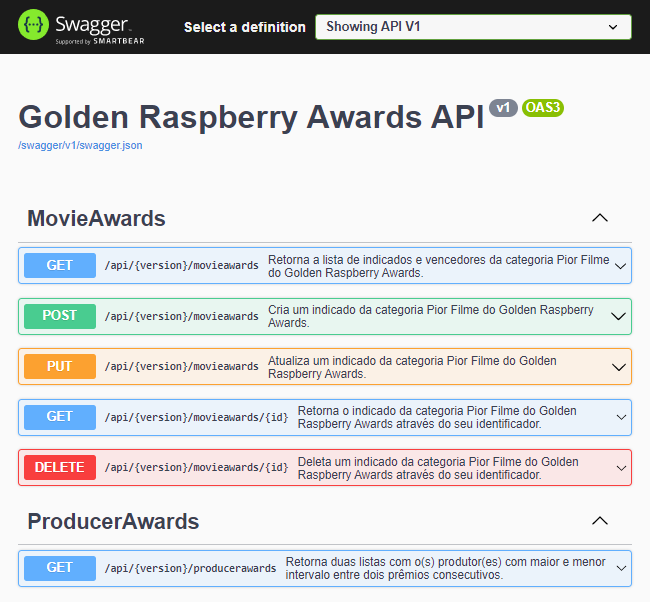
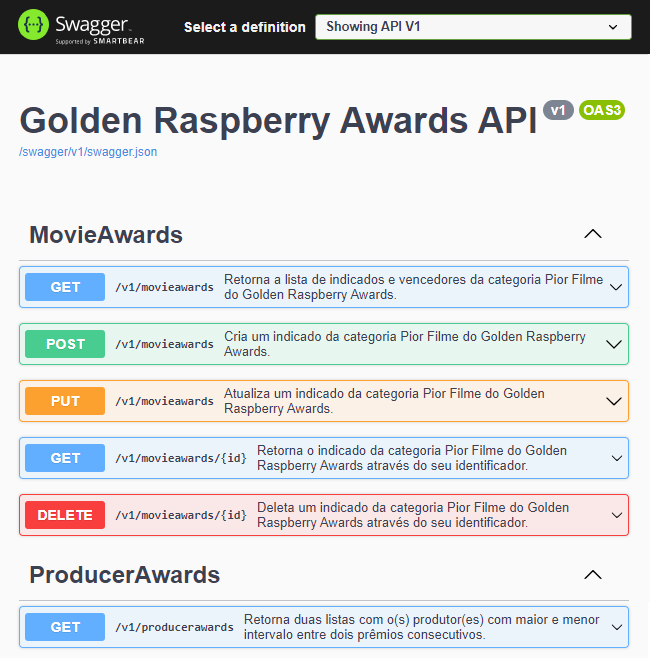
Atualizando formato do versionamento da api assim como os testes de integração e o arquivo README.md

diff --git a/golden.raspberry.awards.api.tests/Controllers/ProducerAwardsControllerTests.cs b/golden.raspberry.awards.api.tests/Controllers/ProducerAwardsControllerTests.cs
@@ -26,7 +26,7 @@ namespace golden.raspberry.awards.api.tests
         private AppDbContext _appDbContext;
         private SqliteConnection _sqliteConnection;
 
-        private const int ApiVersion = 1;
+        private const string ApiUrlVersion = "v1/producerawards";
 
         [SetUp]
         public void Setup()
@@ -66,7 +66,7 @@ namespace golden.raspberry.awards.api.tests
             _appDbContext.SaveChanges();
 
             //Act
-            var response = await _client.GetAsync($"/api/{ApiVersion}/producerawards");
+            var response = await _client.GetAsync($"{ApiUrlVersion}");
             response.EnsureSuccessStatusCode();
 
             var producerAwardResult = JsonConvert.DeserializeObject<ProducerAwardResult>(response.Content.ReadAsStringAsync().Result);
@@ -108,7 +108,7 @@ namespace golden.raspberry.awards.api.tests
             _appDbContext.SaveChanges();
 
             //Act
-            var response = await _client.GetAsync($"/api/{ApiVersion}/producerawards");
+            var response = await _client.GetAsync($"{ApiUrlVersion}");
             response.EnsureSuccessStatusCode();
 
             var producerAwardResult = JsonConvert.DeserializeObject<ProducerAwardResult>(response.Content.ReadAsStringAsync().Result);
@@ -144,7 +144,7 @@ namespace golden.raspberry.awards.api.tests
             _appDbContext.SaveChanges();
 
             //Act
-            var response = await _client.GetAsync($"/api/{ApiVersion}/producerawards");
+            var response = await _client.GetAsync($"{ApiUrlVersion}");
             response.EnsureSuccessStatusCode();
 
             var producerAwardResult = JsonConvert.DeserializeObject<ProducerAwardResult>(response.Content.ReadAsStringAsync().Result);
@@ -163,7 +163,7 @@ namespace golden.raspberry.awards.api.tests
             var expectedCount = 0;
 
             //Act
-            var response = await _client.GetAsync($"/api/{ApiVersion}/producerawards");
+            var response = await _client.GetAsync($"{ApiUrlVersion}");
             response.EnsureSuccessStatusCode();
 
             var producerAwardResult = JsonConvert.DeserializeObject<ProducerAwardResult>(response.Content.ReadAsStringAsync().Result);
@@ -195,7 +195,7 @@ namespace golden.raspberry.awards.api.tests
             _appDbContext.SaveChanges();
 
             //Act
-            var response = await _client.GetAsync($"/api/{ApiVersion}/producerawards");
+            var response = await _client.GetAsync($"{ApiUrlVersion}");
             response.EnsureSuccessStatusCode();
 
             var producerAwardResult = JsonConvert.DeserializeObject<ProducerAwardResult>(response.Content.ReadAsStringAsync().Result);
@@ -227,7 +227,7 @@ namespace golden.raspberry.awards.api.tests
             _appDbContext.SaveChanges();
 
             //Act
-            var response = await _client.GetAsync($"/api/{ApiVersion}/producerawards");
+            var response = await _client.GetAsync($"{ApiUrlVersion}");
             response.EnsureSuccessStatusCode();
 
             var producerAwardResult = JsonConvert.DeserializeObject<ProducerAwardResult>(response.Content.ReadAsStringAsync().Result);
@@ -263,7 +263,7 @@ namespace golden.raspberry.awards.api.tests
             _appDbContext.SaveChanges();
 
             //Act
-            var response = await _client.GetAsync($"/api/{ApiVersion}/producerawards");
+            var response = await _client.GetAsync($"{ApiUrlVersion}");
             response.EnsureSuccessStatusCode();
 
             var producerAwardResult = JsonConvert.DeserializeObject<ProducerAwardResult>(response.Content.ReadAsStringAsync().Result);
@@ -305,7 +305,7 @@ namespace golden.raspberry.awards.api.tests
             _appDbContext.SaveChanges();
 
             //Act
-            var response = await _client.GetAsync($"/api/{ApiVersion}/producerawards");
+            var response = await _client.GetAsync($"{ApiUrlVersion}");
             response.EnsureSuccessStatusCode();
 
             var producerAwardResult = JsonConvert.DeserializeObject<ProducerAwardResult>(response.Content.ReadAsStringAsync().Result);
@@ -344,7 +344,7 @@ namespace golden.raspberry.awards.api.tests
             _appDbContext.SaveChanges();
 
             //Act
-            var response = await _client.GetAsync($"/api/{ApiVersion}/producerawards");
+            var response = await _client.GetAsync($"{ApiUrlVersion}");
             response.EnsureSuccessStatusCode();
 
             var producerAwardResult = JsonConvert.DeserializeObject<ProducerAwardResult>(response.Content.ReadAsStringAsync().Result);

diff --git a/golden.raspberry.awards.api.tests/Controllers/MovieAwardsControllerTests.cs b/golden.raspberry.awards.api.tests/Controllers/MovieAwardsControllerTests.cs
@@ -28,7 +28,7 @@ namespace golden.raspberry.awards.api.tests.Controllers
         private AppDbContext _appDbContext;
         private SqliteConnection _sqliteConnection;
 
-        private const int ApiVersion = 1;
+        private const string ApiUrlVersion = "v1/movieawards";
 
         [OneTimeSetUp]
         public void OnTypeSetup()
@@ -65,7 +65,7 @@ namespace golden.raspberry.awards.api.tests.Controllers
             var expectedCount = 206;
 
             //Act
-            var response = await _client.GetAsync($"/api/{ApiVersion}/movieawards");
+            var response = await _client.GetAsync($"{ApiUrlVersion}");
             response.EnsureSuccessStatusCode();
 
             var movieAwardNominations = JsonConvert.DeserializeObject<List<MovieAwardNomination>>(response.Content.ReadAsStringAsync().Result);
@@ -78,7 +78,7 @@ namespace golden.raspberry.awards.api.tests.Controllers
         public async Task Quando_BuscarPorIdNaoExistente_Deve_Retornar_NuloECodigoSemConteudo()
         {
             //Act
-            var response = await _client.GetAsync($"/api/{ApiVersion}/movieawards/500");
+            var response = await _client.GetAsync($"{ApiUrlVersion}/500");
             response.EnsureSuccessStatusCode();
 
             var movieAwardNomination = JsonConvert.DeserializeObject<MovieAwardNomination>(response.Content.ReadAsStringAsync().Result);
@@ -95,7 +95,7 @@ namespace golden.raspberry.awards.api.tests.Controllers
             var expectedId = 8;
 
             //Act
-            var response = await _client.GetAsync($"/api/{ApiVersion}/movieawards/8");
+            var response = await _client.GetAsync($"{ApiUrlVersion}/8");
             response.EnsureSuccessStatusCode();
 
             var movieAwardNomination = JsonConvert.DeserializeObject<MovieAwardNomination>(response.Content.ReadAsStringAsync().Result);
@@ -111,7 +111,7 @@ namespace golden.raspberry.awards.api.tests.Controllers
             //Arrange
 
             //Act
-            var response = await _client.GetAsync($"/api/{ApiVersion}/movieawards/0");
+            var response = await _client.GetAsync($"{ApiUrlVersion}/0");
 
             //Assert
             response.StatusCode.Should().Be(HttpStatusCode.NotFound);
@@ -131,7 +131,7 @@ namespace golden.raspberry.awards.api.tests.Controllers
             var content = new StringContent(manJson, Encoding.UTF8, "application/json");
 
             //Act
-            var response = await _client.PostAsync($"/api/{ApiVersion}/movieawards", content);
+            var response = await _client.PostAsync($"{ApiUrlVersion}", content);
             response.EnsureSuccessStatusCode();
 
             var result = response.Content.ReadAsStringAsync().Result;
@@ -156,7 +156,7 @@ namespace golden.raspberry.awards.api.tests.Controllers
             var content = new StringContent(manJson, Encoding.UTF8, "application/json");
 
             //Act
-            var response = await _client.PutAsync($"/api/{ApiVersion}/movieawards", content);
+            var response = await _client.PutAsync($"{ApiUrlVersion}", content);
             response.EnsureSuccessStatusCode();
 
             var movieAwardNominationResult = JsonConvert.DeserializeObject<MovieAwardNomination>(response.Content.ReadAsStringAsync().Result);
@@ -177,7 +177,7 @@ namespace golden.raspberry.awards.api.tests.Controllers
             //Arrange
 
             //Act
-            var response = await _client.DeleteAsync($"/api/{ApiVersion}/movieawards/1");
+            var response = await _client.DeleteAsync($"{ApiUrlVersion}/1");
             response.EnsureSuccessStatusCode();
 
             //Assert

diff --git a/golden.raspberry.awards.api/Startup.cs b/golden.raspberry.awards.api/Startup.cs
@@ -32,6 +32,12 @@ namespace golden.raspberry.awards.api
                 setup.AssumeDefaultVersionWhenUnspecified = true;
                 setup.ReportApiVersions = true;
             });
+            services.AddVersionedApiExplorer(
+                options =>
+                {
+                    options.GroupNameFormat = "'v'V";
+                    options.SubstituteApiVersionInUrl = true;
+                });
 
             services.AddRouting(options => options.LowercaseUrls = true);
             services.AddDependencies(Configuration);

diff --git a/golden.raspberry.awards.api/Controllers/v1/ProducerAwardsController.cs b/golden.raspberry.awards.api/Controllers/v1/ProducerAwardsController.cs
@@ -7,8 +7,7 @@ using System;
 namespace golden.raspberry.awards.api.Controllers.v1
 {
     [ApiController]
-    [Route("api/{version:apiVersion}/[controller]")]
-    [ApiVersion("1.0")]
+    [Route("v{version:apiVersion}/[controller]")]
     public class ProducerAwardsController : ControllerBase
     {
         private readonly ILogger<MovieAwardsController> _logger;

diff --git a/golden.raspberry.awards.api/Controllers/v1/MovieAwardsController.cs b/golden.raspberry.awards.api/Controllers/v1/MovieAwardsController.cs
@@ -8,8 +8,7 @@ using System;
 namespace golden.raspberry.awards.api.Controllers.v1
 {
     [ApiController]
-    [Route("api/{version:apiVersion}/[controller]")]
-    [ApiVersion("1.0")]
+    [Route("v{version:apiVersion}/[controller]")]
     public class MovieAwardsController : ControllerBase
     {
         private readonly ILogger<MovieAwardsController> _logger;

diff --git a/README.md b/README.md
@@ -24,7 +24,7 @@ git clone https://github.com/DiegoAntunes/golden.raspberry.awards.git
 
 - Utilizar o browser para chamar o recurso principal do controlador ProducerAwars:
 ```
-https://localhost:44331/api/1/producerawards
+https://localhost:44331/v1/producerawards
 ```
 - Ou utilizar a chamada diretamente pela interface do Swagger:
 ![ProducerAwards Controller](./ProducerAwards.png)
@@ -37,7 +37,7 @@ https://localhost:44331/api/1/producerawards
 
 **Endpoint:** GET
 
-**URL:** /api/1/producerawards
+**URL:** /v1/producerawards
 
 **Exemplo de resposta:**
 ```javascript
